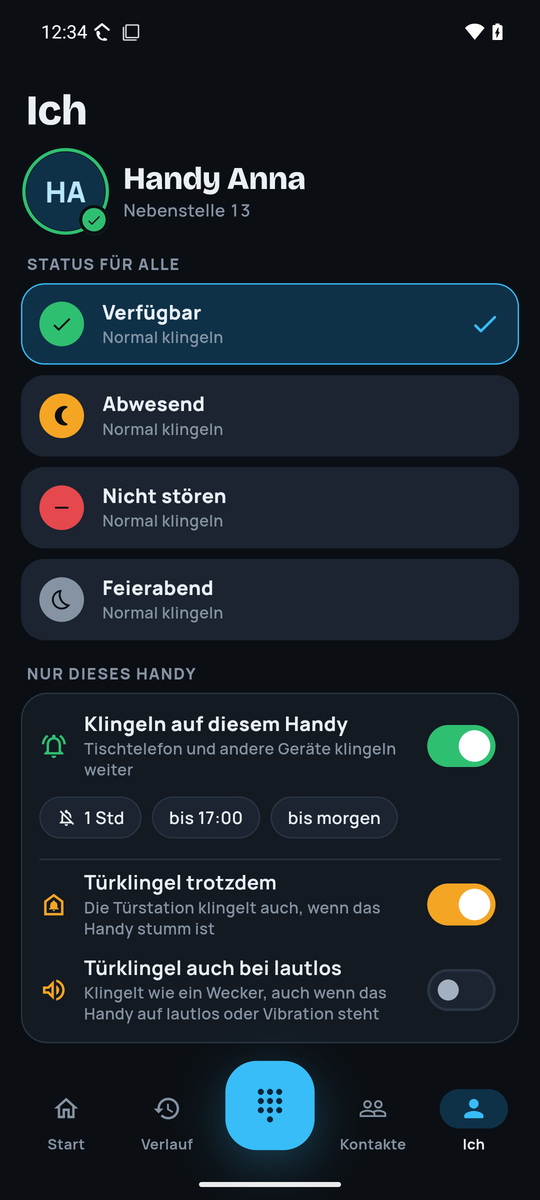
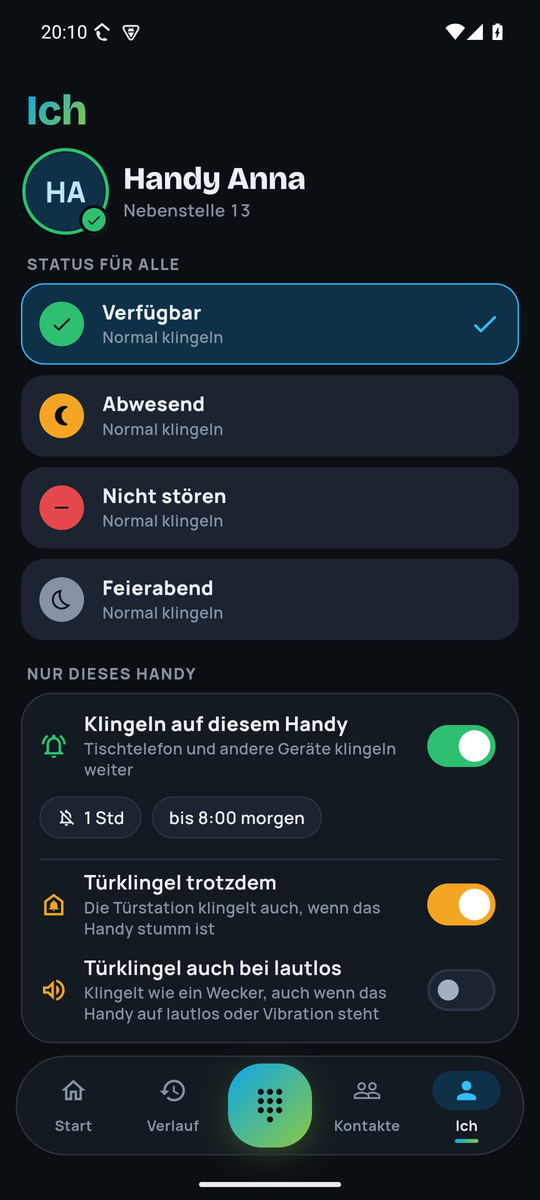
docs(readme): Version 1.8, neue Screenshots im Nachtwache-Design
Alle 12 Screenshots neu (App 1.8.1, schwebende Pillen-Navigation, Beispieldaten,
Kamerabild als Foto), Stand auf Version 1.8 / Anlage 0.7.158 korrigiert, Design
Nachtwache und Navigationsleiste im Abschnitt Erscheinungsbild erwähnt.

Claude-Session: https://claude.ai/code/session_01Tb211UeES2ucPFStDvonTq

diff --git a/README.md b/README.md
@@ -5,8 +5,8 @@ Dein Handy wird zur Nebenstelle: Es klingelt wie ein normales Telefon, zeigt an 
 
 ![HA-Phone App: Türstation klingelt bei gesperrtem Handy, Türgespräch, Start, Klingel-Verlauf](docs/screenshots/hero.png)
 
-> Aktueller Stand: **Android, Version 1.6** (Test-Phase). iOS folgt.
-> Voraussetzung: Home Assistant mit dem Add-on **HA-Phone**, empfohlen **ab 0.7.140** (der Schalter „Türstation“ kam mit 0.7.138).
+> Aktueller Stand: **Android, Version 1.8** (Test-Phase). iOS folgt.
+> Voraussetzung: Home Assistant mit dem Add-on **HA-Phone**, empfohlen **ab 0.7.140** (der Schalter „Türstation“ kam mit 0.7.138), am besten die aktuelle Version (0.7.158).
 > Alle Screenshots zeigen Beispieldaten.
 
 ---
@@ -86,7 +86,7 @@ Dein Handy wird zur Nebenstelle: Es klingelt wie ein normales Telefon, zeigt an 
 - Google lässt Telefonie-Apps in Android Auto derzeit nur als Beta zu. Für eine selbst installierte App in Android Auto die Entwickleroptionen öffnen (10× auf „Version“ tippen) und **„Unbekannte Quellen“** einschalten. Im Auto noch nicht getestet.
 
 ### 🌗 Erscheinungsbild
-Dunkel (Standard), Hell oder wie das System, einstellbar im Reiter „Ich“. Die App ist für große Systemschrift ausgelegt (bis 200 %).
+Das Design heißt „Nachtwache“: runde Karten, ein Blau-Grün-Verlauf und eine **schwebende Navigationsleiste** mit *Start*, *Verlauf*, *Wählen* (großer Knopf in der Mitte), *Kontakte* und *Ich*. Dunkel (Standard), Hell oder wie das System, einstellbar im Reiter „Ich“. Die App ist für große Systemschrift ausgelegt (bis 200 %).
 
 ---
 
